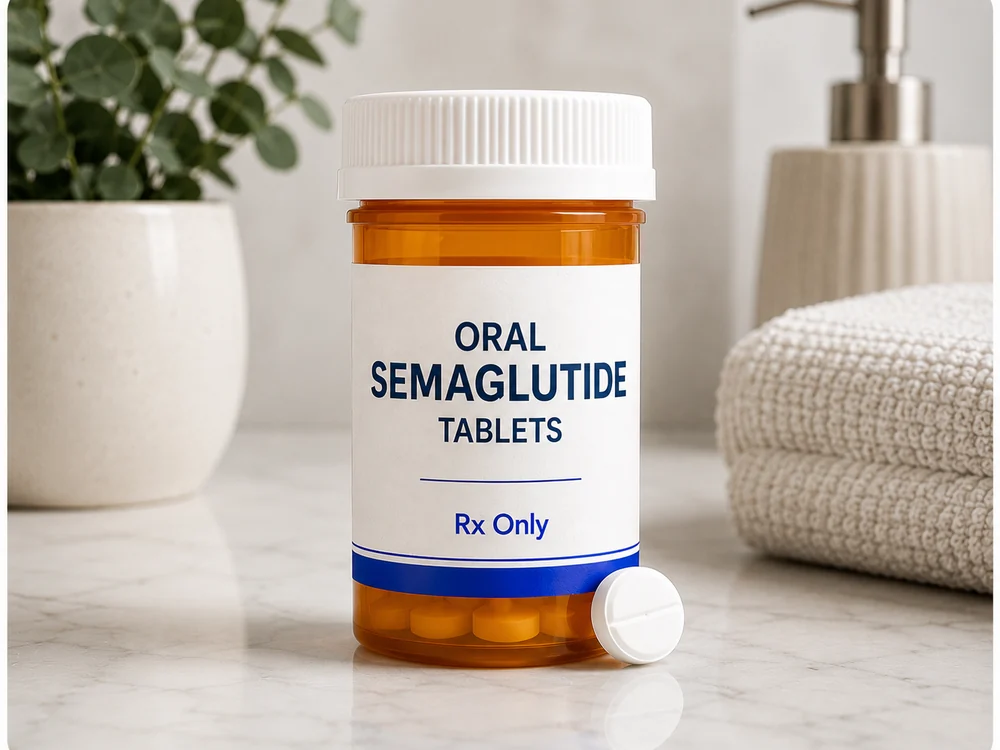
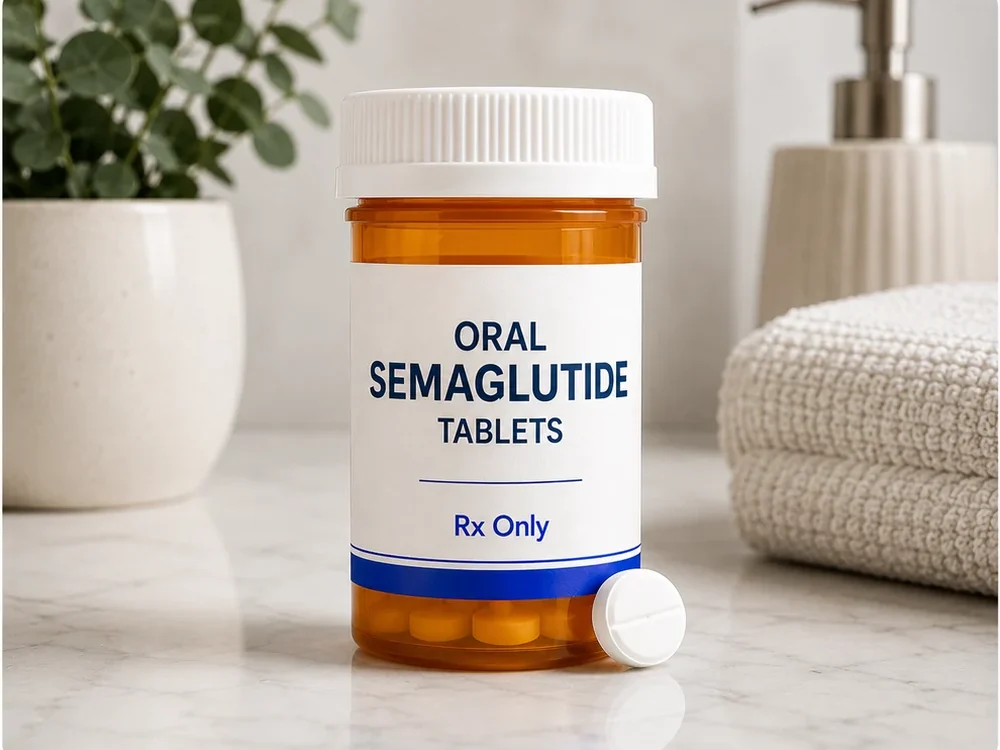
feat(site): group Weight Loss treatments by medication, two by two
Semaglutide on the top row, tirzepatide below, each with its injection and
oral card under a small serif heading — the same two-up rhythm as Healthy
Aging, and no more cramped four-across buttons. Also crops the baked-in white
side bars off the weight product photos (the semaglutide vial had 40 px each
side, so it never filled its card) and sizes that vial to match its neighbours.

diff --git a/wellpeps-site/src/data/weight.ts b/wellpeps-site/src/data/weight.ts
@@ -86,6 +86,8 @@ export interface PillBenefit {
 
 export interface PillProduct {
   name: string;
+  /** Which row of the treatments grid the card sits in (weightProductGroups). */
+  medication: 'semaglutide' | 'tirzepatide';
   image: string;
   alt: string;
   benefits: PillBenefit[];
@@ -106,6 +108,7 @@ export const weightProductsIntro = {
 export const weightProducts: PillProduct[] = [
   {
     name: 'Compounded Semaglutide',
+    medication: 'semaglutide',
     image: '/images/weight/product-semaglutide.webp',
     alt: 'Compounded semaglutide injection vial',
     benefits: [
@@ -121,6 +124,7 @@ export const weightProducts: PillProduct[] = [
   },
   {
     name: 'Compounded Tirzepatide',
+    medication: 'tirzepatide',
     image: '/images/weight/product-tirzepatide.webp',
     alt: 'Compounded tirzepatide injection vial',
     benefits: [
@@ -136,6 +140,7 @@ export const weightProducts: PillProduct[] = [
   },
   {
     name: 'Oral Semaglutide',
+    medication: 'semaglutide',
     image: '/images/weight/product-oral.webp',
     alt: 'Oral semaglutide tablets',
     benefits: [
@@ -151,6 +156,7 @@ export const weightProducts: PillProduct[] = [
   },
   {
     name: 'Oral Tirzepatide',
+    medication: 'tirzepatide',
     image: '/images/weight/product-oral-tirzepatide.webp',
     alt: 'Oral tirzepatide prescription bottle',
     benefits: [
@@ -163,6 +169,13 @@ export const weightProducts: PillProduct[] = [
     delivery: { label: 'Oral Medication', icon: 'pill' },
     priceUnit: '/month',
   },
+];
+
+/** The treatments grid is grouped by medication, one row each: the patient's
+ *  first question is which medication, then injection or oral. */
+export const weightProductGroups: { medication: PillProduct['medication']; title: string; note: string }[] = [
+  { medication: 'semaglutide', title: 'Semaglutide', note: 'A GLP-1 medication, available as a weekly injection or a daily tablet.' },
+  { medication: 'tirzepatide', title: 'Tirzepatide', note: 'A dual GIP/GLP-1 medication, available as a weekly injection or an oral option.' },
 ];
 
 export interface WeightFaq {
